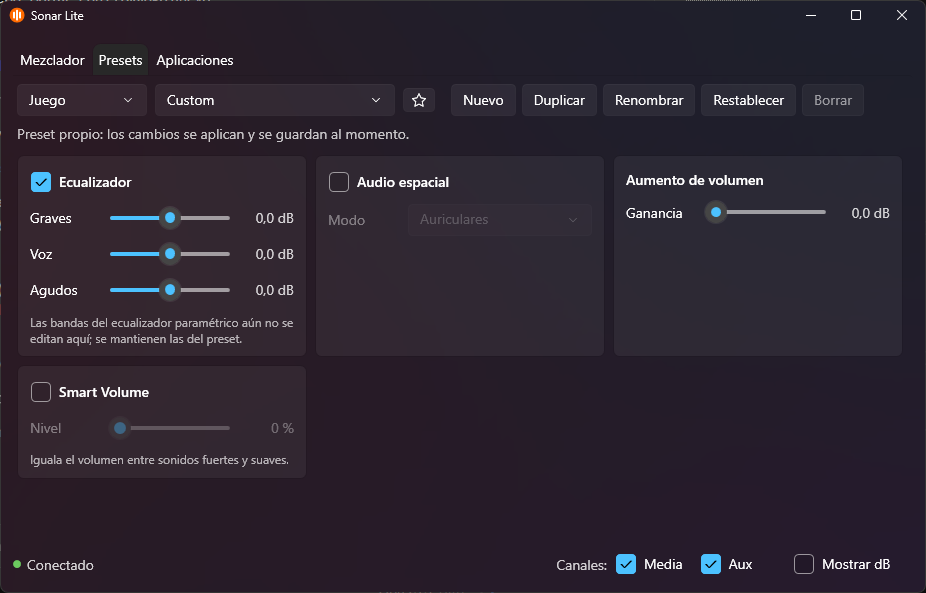
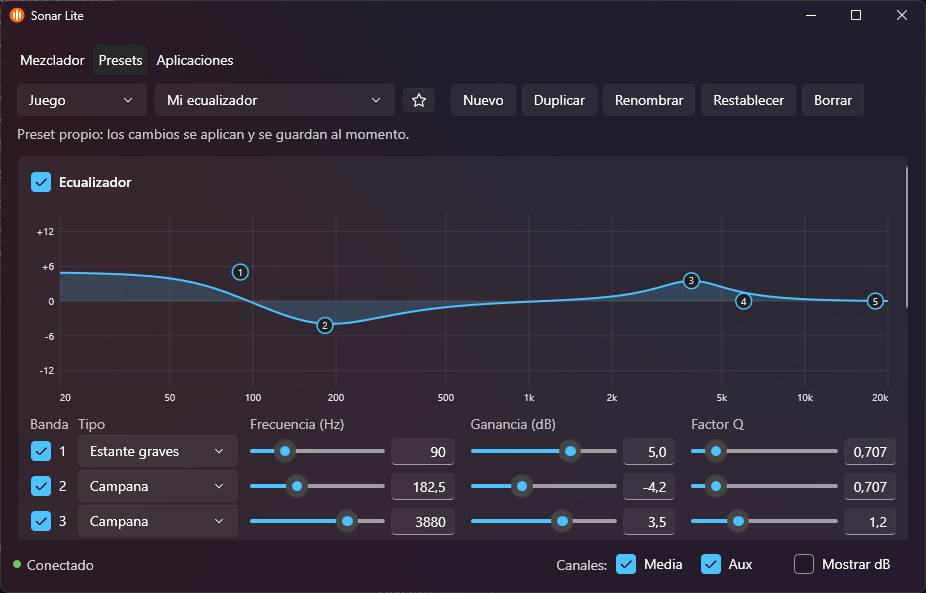
README: ecualizador paramétrico y nueva captura de presets

diff --git a/README.md b/README.md
@@ -41,10 +41,15 @@ de aplicaciones a canales y desactivación de canales.
 
 - La pestaña "Presets" edita el preset seleccionado del canal elegido. Los cambios se aplican y se
   guardan al momento, como en GG.
-- Juego, Media y Aux: ecualizador con graves, voz y agudos, audio espacial (auriculares o
+- Ecualizador paramétrico de 10 bandas en todos los canales: cada banda se activa o desactiva y
+  tiene tipo (campana, estante de graves o de agudos, paso bajo, paso alto o rechazo), frecuencia
+  (20–20000 Hz), ganancia (±12 dB) y factor Q (0,5–10), con deslizador y casilla para escribir el
+  valor. La curva de respuesta se dibuja encima: arrastra un punto para mover su banda y usa la
+  rueda del ratón para cambiar su Q.
+- Juego, Media y Aux: refuerzos de graves, voz y agudos, audio espacial (auriculares o
   altavoces), aumento de volumen y Smart Volume.
-- Chat y Micrófono: ecualizador, cancelación de ruido IA (ClearCast), reducción de ruido de fondo
-  y de impactos, puerta de ruido (con umbral automático) y estabilizador de volumen.
+- Chat y Micrófono: cancelación de ruido IA (ClearCast), reducción de ruido de fondo y de
+  impactos, puerta de ruido (con umbral automático) y estabilizador de volumen.
 - Nuevo, Duplicar, Renombrar, Restablecer, Borrar y favorito (★, salen primero en las listas).
   Los presets de SteelSeries se pueden editar y restablecer, pero no renombrar ni borrar.
 
@@ -71,7 +76,8 @@ de aplicaciones a canales y desactivación de canales.
 ## Limitaciones conocidas
 
 - **Rueda física de ChatMix** del casco: llega vía SteelSeries Engine, que no se ejecuta.
-- Las 10 bandas del ecualizador paramétrico aún no se editan (se conservan las de cada preset).
+- La curva del ecualizador no incluye los refuerzos de graves, voz y agudos: el APO los aplica
+  aparte y su forma no se conoce.
 - El enrutado por app es solo de salida (no micrófono).
 
 ## Estructura
